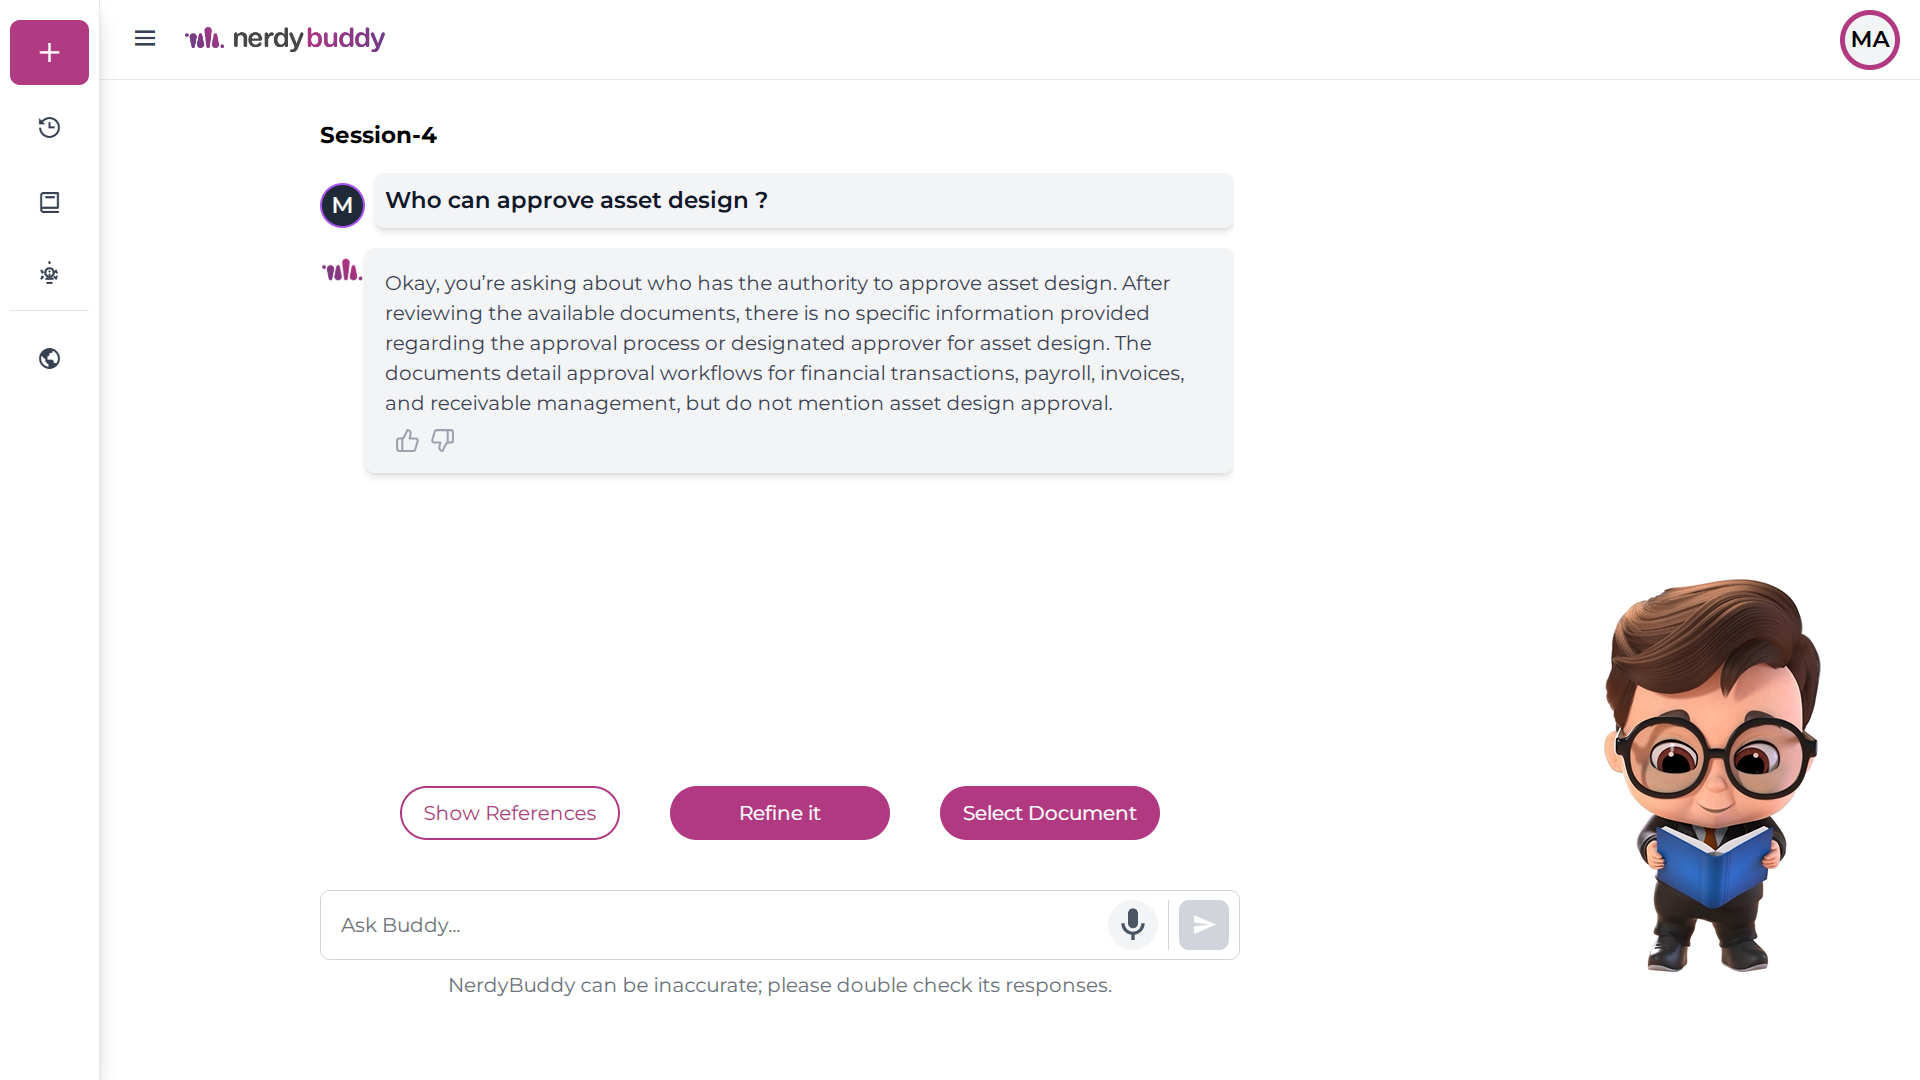
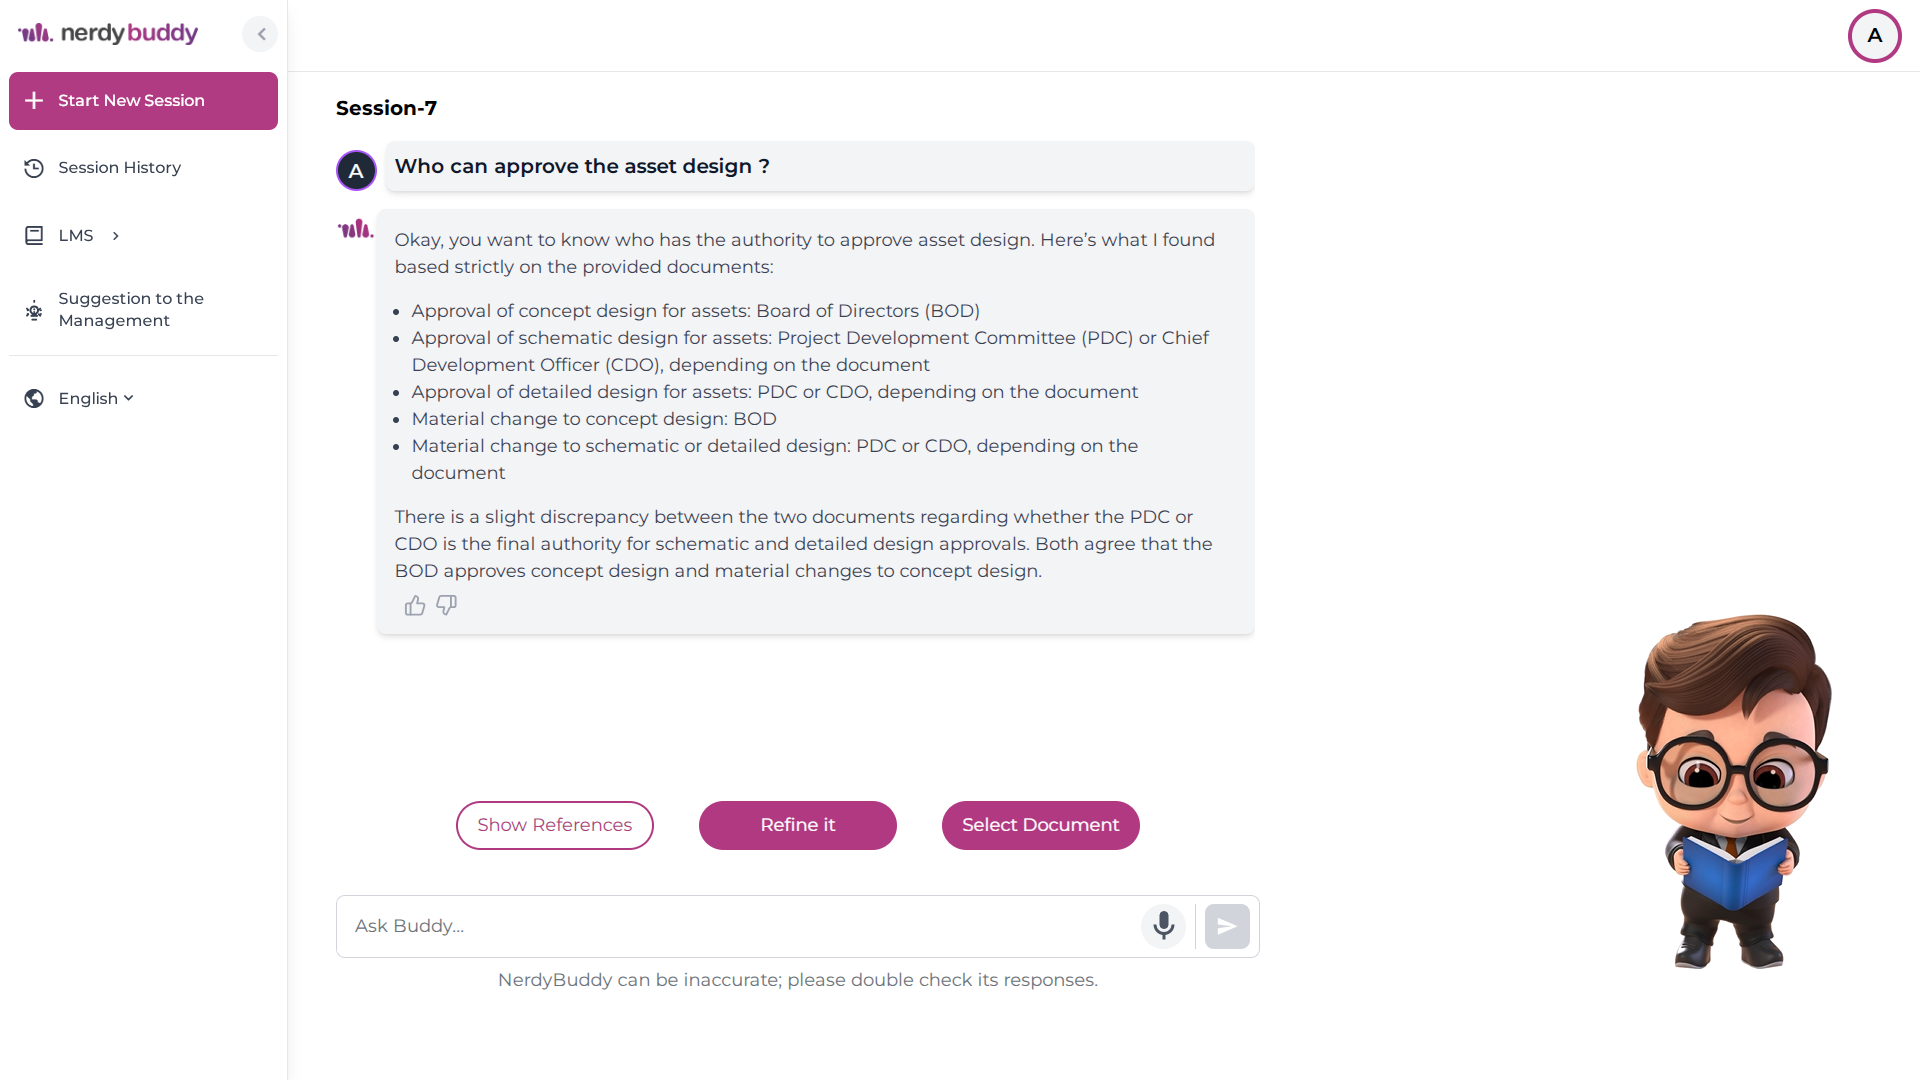
feat

diff --git a/src/pages/pricingPage.jsx b/src/pages/pricingPage.jsx
@@ -1916,10 +1916,11 @@ const PricingPage = () => {
                         <div className="grid md:grid-cols-4 gap-12 mb-12">
                             <div>
                                 <div className="flex items-center space-x-2 mb-6">
-                                    <Brain className="w-8 h-8 text-[#B03982]" />
-                                    <span className="text-2xl font-bold bg-gradient-to-r from-[#B03982] to-[#733C86] bg-clip-text text-transparent">
-                                        AI Solutions
-                                    </span>
+                                    <img
+                                        src="https://nerdybuddy.com/wp-content/uploads/2024/08/Nerdy-Buddy-scaled.png"
+                                        alt="Nerdy Buddy"
+                                        className="h-8 w-auto transition-all duration-300"
+                                    />
                                 </div>
                                 <p className="text-gray-400 mb-6">
                                     Empowering businesses with cutting-edge AI solutions for knowledge management and automation.
@@ -1957,11 +1958,9 @@ const PricingPage = () => {
                             <div>
                                 <h4 className="font-bold text-lg mb-4">Resources</h4>
                                 <ul className="space-y-3">
-                                    <li><a href="#" className="text-gray-400 hover:text-white transition">Documentation</a></li>
-                                    <li><a href="#" className="text-gray-400 hover:text-white transition">API Reference</a></li>
-                                    <li><a href="#" className="text-gray-400 hover:text-white transition">Blog</a></li>
-                                    <li><a href="#" className="text-gray-400 hover:text-white transition">Case Studies</a></li>
-                                    <li><a href="#" className="text-gray-400 hover:text-white transition">Webinars</a></li>
+                                    <li><a href="#" className="text-gray-400 hover:text-white transition">Implementation</a></li>
+                                    <li><a href="#" className="text-gray-400 hover:text-white transition">Use Cases</a></li>
+                                    <li><a href="#" className="text-gray-400 hover:text-white transition">Problem Statement</a></li>
                                 </ul>
                             </div>
 
@@ -1969,10 +1968,7 @@ const PricingPage = () => {
                                 <h4 className="font-bold text-lg mb-4">Company</h4>
                                 <ul className="space-y-3">
                                     <li><a href="#" className="text-gray-400 hover:text-white transition">About Us</a></li>
-                                    <li><a href="#" className="text-gray-400 hover:text-white transition">Careers</a></li>
                                     <li><a href="#" className="text-gray-400 hover:text-white transition">Contact</a></li>
-                                    <li><a href="#" className="text-gray-400 hover:text-white transition">Partners</a></li>
-                                    <li><a href="#" className="text-gray-400 hover:text-white transition">Legal</a></li>
                                 </ul>
                             </div>
                         </div>

diff --git a/src/pages/contact-us.jsx b/src/pages/contact-us.jsx
@@ -471,10 +471,11 @@ const ContactInformation = () => {
                     <div className="grid md:grid-cols-4 gap-12 mb-12">
                         <div>
                             <div className="flex items-center space-x-2 mb-6">
-                                <Brain className="w-8 h-8 text-[#B03982]" />
-                                <span className="text-2xl font-bold bg-gradient-to-r from-[#B03982] to-[#733C86] bg-clip-text text-transparent">
-                                    AI Solutions
-                                </span>
+                                <img
+                                    src="https://nerdybuddy.com/wp-content/uploads/2024/08/Nerdy-Buddy-scaled.png"
+                                    alt="Nerdy Buddy"
+                                    className="h-8 w-auto transition-all duration-300"
+                                />
                             </div>
                             <p className="text-gray-400 mb-6">
                                 Empowering businesses with cutting-edge AI solutions for knowledge management and automation.
@@ -512,11 +513,9 @@ const ContactInformation = () => {
                         <div>
                             <h4 className="font-bold text-lg mb-4">Resources</h4>
                             <ul className="space-y-3">
-                                <li><a href="#" className="text-gray-400 hover:text-white transition">Documentation</a></li>
-                                <li><a href="#" className="text-gray-400 hover:text-white transition">API Reference</a></li>
-                                <li><a href="#" className="text-gray-400 hover:text-white transition">Blog</a></li>
-                                <li><a href="#" className="text-gray-400 hover:text-white transition">Case Studies</a></li>
-                                <li><a href="#" className="text-gray-400 hover:text-white transition">Webinars</a></li>
+                                <li><a href="#" className="text-gray-400 hover:text-white transition">Implementation</a></li>
+                                <li><a href="#" className="text-gray-400 hover:text-white transition">Use Cases</a></li>
+                                <li><a href="#" className="text-gray-400 hover:text-white transition">Problem Statement</a></li>
                             </ul>
                         </div>
 
@@ -524,10 +523,7 @@ const ContactInformation = () => {
                             <h4 className="font-bold text-lg mb-4">Company</h4>
                             <ul className="space-y-3">
                                 <li><a href="#" className="text-gray-400 hover:text-white transition">About Us</a></li>
-                                <li><a href="#" className="text-gray-400 hover:text-white transition">Careers</a></li>
                                 <li><a href="#" className="text-gray-400 hover:text-white transition">Contact</a></li>
-                                <li><a href="#" className="text-gray-400 hover:text-white transition">Partners</a></li>
-                                <li><a href="#" className="text-gray-400 hover:text-white transition">Legal</a></li>
                             </ul>
                         </div>
                     </div>

diff --git a/src/pages/about.jsx b/src/pages/about.jsx
@@ -64,10 +64,11 @@ const About = () => {
                     <div className="grid md:grid-cols-4 gap-12 mb-12">
                         <div>
                             <div className="flex items-center space-x-2 mb-6">
-                                <Brain className="w-8 h-8 text-[#B03982]" />
-                                <span className="text-2xl font-bold bg-gradient-to-r from-[#B03982] to-[#733C86] bg-clip-text text-transparent">
-                                    AI Solutions
-                                </span>
+                                <img
+                                    src="https://nerdybuddy.com/wp-content/uploads/2024/08/Nerdy-Buddy-scaled.png"
+                                    alt="Nerdy Buddy"
+                                    className="h-8 w-auto transition-all duration-300"
+                                />
                             </div>
                             <p className="text-gray-400 mb-6">
                                 Empowering businesses with cutting-edge AI solutions for knowledge management and automation.
@@ -105,11 +106,9 @@ const About = () => {
                         <div>
                             <h4 className="font-bold text-lg mb-4">Resources</h4>
                             <ul className="space-y-3">
-                                <li><a href="#" className="text-gray-400 hover:text-white transition">Documentation</a></li>
-                                <li><a href="#" className="text-gray-400 hover:text-white transition">API Reference</a></li>
-                                <li><a href="#" className="text-gray-400 hover:text-white transition">Blog</a></li>
-                                <li><a href="#" className="text-gray-400 hover:text-white transition">Case Studies</a></li>
-                                <li><a href="#" className="text-gray-400 hover:text-white transition">Webinars</a></li>
+                                <li><a href="#" className="text-gray-400 hover:text-white transition">Implementation</a></li>
+                                <li><a href="#" className="text-gray-400 hover:text-white transition">Use Cases</a></li>
+                                <li><a href="#" className="text-gray-400 hover:text-white transition">Problem Statement</a></li>
                             </ul>
                         </div>
 
@@ -117,10 +116,7 @@ const About = () => {
                             <h4 className="font-bold text-lg mb-4">Company</h4>
                             <ul className="space-y-3">
                                 <li><a href="#" className="text-gray-400 hover:text-white transition">About Us</a></li>
-                                <li><a href="#" className="text-gray-400 hover:text-white transition">Careers</a></li>
                                 <li><a href="#" className="text-gray-400 hover:text-white transition">Contact</a></li>
-                                <li><a href="#" className="text-gray-400 hover:text-white transition">Partners</a></li>
-                                <li><a href="#" className="text-gray-400 hover:text-white transition">Legal</a></li>
                             </ul>
                         </div>
                     </div>

diff --git a/src/components/footer.jsx b/src/components/footer.jsx
@@ -469,11 +469,9 @@ const Footer = () => {
           <div>
             <h4 className="font-bold text-lg mb-4">Resources</h4>
             <ul className="space-y-3">
-              <li><a href="#" className="text-gray-400 hover:text-white transition">Documentation</a></li>
-              <li><a href="#" className="text-gray-400 hover:text-white transition">API Reference</a></li>
-              <li><a href="#" className="text-gray-400 hover:text-white transition">Blog</a></li>
-              <li><a href="#" className="text-gray-400 hover:text-white transition">Case Studies</a></li>
-              <li><a href="#" className="text-gray-400 hover:text-white transition">Webinars</a></li>
+              <li><a href="#" className="text-gray-400 hover:text-white transition">Implementation</a></li>
+              <li><a href="#" className="text-gray-400 hover:text-white transition">Use Cases</a></li>
+              <li><a href="#" className="text-gray-400 hover:text-white transition">Problem Statement</a></li>
             </ul>
           </div>
 
@@ -481,10 +479,7 @@ const Footer = () => {
             <h4 className="font-bold text-lg mb-4">Company</h4>
             <ul className="space-y-3">
               <li><a href="#" className="text-gray-400 hover:text-white transition">About Us</a></li>
-              <li><a href="#" className="text-gray-400 hover:text-white transition">Careers</a></li>
               <li><a href="#" className="text-gray-400 hover:text-white transition">Contact</a></li>
-              <li><a href="#" className="text-gray-400 hover:text-white transition">Partners</a></li>
-              <li><a href="#" className="text-gray-400 hover:text-white transition">Legal</a></li>
             </ul>
           </div>
         </div>
